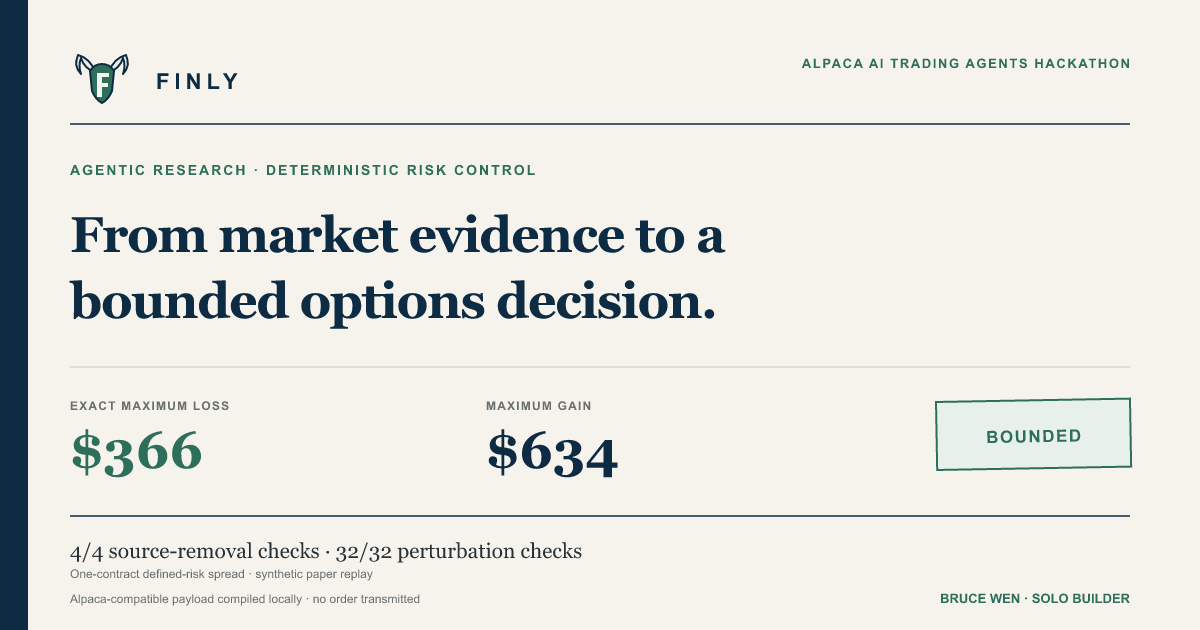
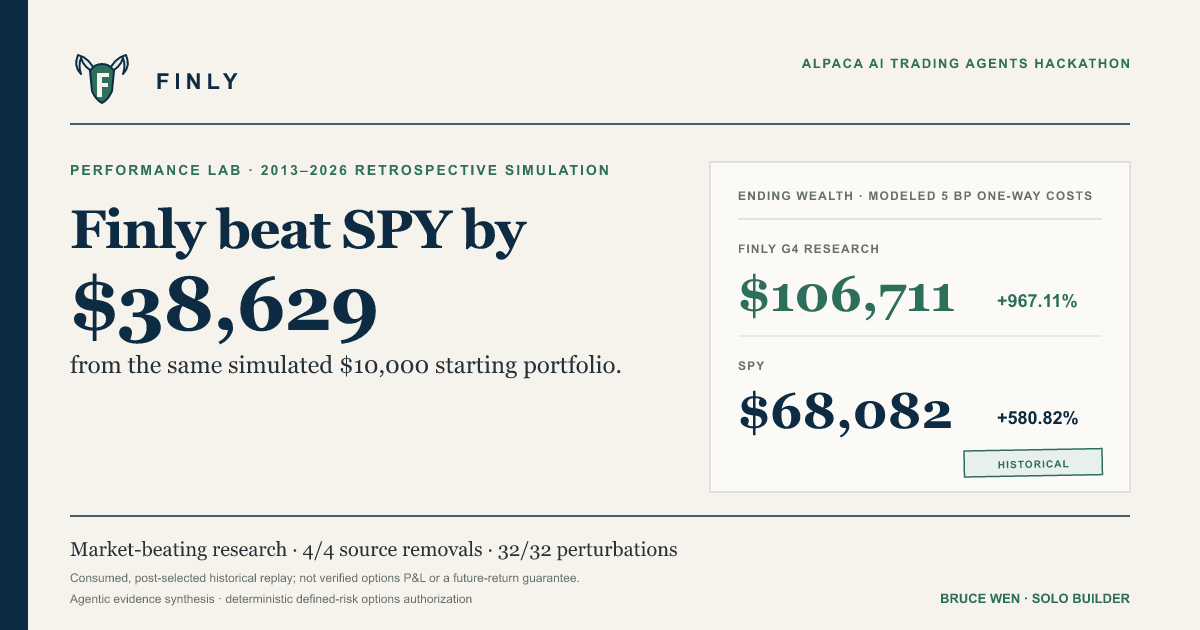
Lead with Finly's market-beating historical result

diff --git a/src/App.tsx b/src/App.tsx
@@ -162,6 +162,12 @@ const deliverables = [
 
 const pct = (value: number, digits = 2) => `${(value * 100).toFixed(digits)}%`;
 const signedPct = (value: number, digits = 2) => `${value >= 0 ? "+" : ""}${pct(value, digits)}`;
+const dollars = (value: number) => value.toLocaleString("en-US", {
+  maximumFractionDigits: 0,
+  minimumFractionDigits: 0,
+  style: "currency",
+  currency: "USD",
+});
 
 function titleCaseEvidenceClass(value: string) {
   return value.toLowerCase().replaceAll("_", " ");
@@ -173,6 +179,10 @@ export function DemoClient() {
   const g4 = gate.conclusions.g4_rejected_post_selection;
   const production = gate.conclusions.production_v1_execution_realism;
   const futureTests = gate.conclusions.registered_future_only_tests;
+  const performanceLabStartingWealth = 10_000;
+  const performanceLabEndingWealth = performanceLabStartingWealth * (1 + g4.g4_total_return);
+  const spyEndingWealth = performanceLabStartingWealth * (1 + g4.spy_total_return);
+  const performanceLabAdvantage = performanceLabEndingWealth - spyEndingWealth;
   const receipt = receiptMode === "aligned" ? alignedReceipt : conflictReceipt;
   const demoCandidate = alignedReceipt.compilation.selected;
   if (!demoCandidate || !alignedReceipt.certificate.certified || !alignedReceipt.perturbations?.passed) {
@@ -199,70 +209,71 @@ export function DemoClient() {
       <main id="main-content">
         <section className="hero shell" id="case">
           <div className="hero-copy">
-            <p className="kicker">Agentic options research / deterministic risk control</p>
-            <h1>From market evidence to a bounded options decision.</h1>
+            <p className="kicker">Market-beating historical research / bounded agentic execution</p>
+            <h1>Finly beat SPY by $38,629 in a $10,000 historical simulation.</h1>
             <p className="hero-deck">
-              Finly lets AI interpret a multi-source market case, then gives deterministic code the final word on the
-              contract, maximum loss, stress tests and authorization outcome.
+              Across the consumed 2013–2026 replay, Finly's strongest research configuration returned +967.11% versus
+              +580.82% for SPY. Its agentic pipeline then converts market evidence into a defined-risk options proposal
+              while deterministic code retains control of exposure, maximum loss and authorization.
             </p>
             <div className="hero-actions">
-              <a className="primary-action" href="#controls">Open the decision receipt</a>
-              <a className="text-action" href="#system">Follow the evidence chain <span aria-hidden="true">↓</span></a>
+              <a className="primary-action" href="#evidence">Inspect the performance replay</a>
+              <a className="text-action" href="#controls">Open the decision receipt <span aria-hidden="true">↓</span></a>
             </div>
             <p className="hero-thesis">
-              The model explains why a trade may exist. Code owns whether a capital-bearing instruction may exist.
+              Performance Lab searches for edge. The authorization gateway decides how much authority that evidence earns.
             </p>
           </div>
 
           <figure className="hero-figure">
             <div className="figure-labels">
-              <span>Checked decision receipt</span>
-              <strong>Synthetic paper replay</strong>
+              <span>Performance Lab result</span>
+              <strong>{g4.start_date.slice(0, 4)}–{g4.end_date.slice(0, 4)}</strong>
             </div>
             <div
               className="hero-result"
               role="img"
-              aria-label={`The checked synthetic paper replay compiled a one-contract defined-risk spread with an exact ${demoCandidate.max_loss} dollar maximum loss and ${demoCandidate.max_gain} dollar maximum gain after ${sourceRemovalCount} source-removal checks and ${perturbationCount} perturbation checks passed.`}
+              aria-label={`In the consumed historical simulation, ten thousand dollars became approximately ${dollars(performanceLabEndingWealth)} with Finly and ${dollars(spyEndingWealth)} with SPY, an ending-wealth advantage of ${dollars(performanceLabAdvantage)} after modeled ${g4.modeled_one_way_cost_bps} basis point one-way costs.`}
             >
               <div>
-                <span>Exact maximum loss</span>
-                <strong>${demoCandidate.max_loss}</strong>
-                <small>One-contract defined-risk spread</small>
+                <span>Finly ending wealth</span>
+                <strong>{dollars(performanceLabEndingWealth)}</strong>
+                <small>{signedPct(g4.g4_total_return)} total return</small>
               </div>
               <div>
-                <span>Maximum gain</span>
-                <strong>${demoCandidate.max_gain}</strong>
-                <small>Same compiled structure</small>
+                <span>SPY ending wealth</span>
+                <strong>{dollars(spyEndingWealth)}</strong>
+                <small>{signedPct(g4.spy_total_return)} total return</small>
               </div>
-              <p>{sourceRemovalCount}/{sourceRemovalCount} source removals and {perturbationCount}/{perturbationCount} perturbations passed.</p>
-              <em className="decision-stamp">Bounded</em>
+              <p><strong>{dollars(performanceLabAdvantage)}</strong> more ending wealth in the modeled historical replay.</p>
+              <em className="decision-stamp">Historical</em>
             </div>
             <figcaption>
-              The fixture compiled a local Alpaca-compatible paper payload. Nothing was transmitted, and the demo is not
-              broker-fill or profitability evidence.
+              Consumed, post-selected retrospective simulation with modeled {g4.modeled_one_way_cost_bps} bp one-way
+              costs. This is historical research evidence, not verified options P&amp;L or a future-return guarantee.
             </figcaption>
           </figure>
 
           <dl className="hero-metrics" aria-label="Checked product capabilities">
             <div>
+              <dt>Finly historical return</dt>
+              <dd>{signedPct(g4.g4_total_return)}</dd>
+              <p>Performance Lab result after modeled {g4.modeled_one_way_cost_bps} bp one-way costs.</p>
+            </div>
+            <div>
+              <dt>SPY historical return</dt>
+              <dd>{signedPct(g4.spy_total_return)}</dd>
+              <p>Identical consumed comparison window.</p>
+            </div>
+            <div>
               <dt>Source-removal checks</dt>
               <dd>{sourceRemovalCount}/{sourceRemovalCount}</dd>
-              <p>The same defined-risk structure survived each recorded source-family removal.</p>
+              <p>The checked defined-risk proposal survived each source-family removal.</p>
             </div>
             <div>
               <dt>Perturbation checks</dt>
               <dd>{perturbationCount}/{perturbationCount}</dd>
-              <p>The compiled structure remained stable across the recorded input shocks.</p>
-            </div>
-            <div>
-              <dt>Defined maximum loss</dt>
-              <dd>${alignedReceipt.certificate.max_loss_per_contract}</dd>
-              <p>Risk is calculated before the local paper payload can be certified.</p>
-            </div>
-            <div>
-              <dt>Authorization outcome</dt>
-              <dd>Permit</dd>
-              <p>The checked aligned fixture compiled locally; a conflicting fixture returns NO_TRADE.</p>
+              <p>The checked proposal remained stable across every recorded input shock.</p>
             </div>
           </dl>
         </section>

diff --git a/src/HistoricalExplorer.tsx b/src/HistoricalExplorer.tsx
@@ -29,21 +29,31 @@ export function HistoricalExplorer({
   worstFamilywisePValue,
   disposition,
 }: HistoricalExplorerProps) {
-  const [view, setView] = useState<"result" | "decision">("decision");
+  const [view, setView] = useState<"result" | "decision">("result");
   const scale = Math.max(candidateReturn, spyReturn);
   const candidateWidth = `${Math.max(0, (candidateReturn / scale) * 100)}%`;
   const spyWidth = `${Math.max(0, (spyReturn / scale) * 100)}%`;
+  const startingWealth = 10_000;
+  const candidateEndingWealth = startingWealth * (1 + candidateReturn);
+  const spyEndingWealth = startingWealth * (1 + spyReturn);
+  const endingWealthAdvantage = candidateEndingWealth - spyEndingWealth;
+  const dollars = (value: number) => value.toLocaleString("en-US", {
+    maximumFractionDigits: 0,
+    minimumFractionDigits: 0,
+    style: "currency",
+    currency: "USD",
+  });
 
   return (
     <section className="range-explorer" aria-labelledby="historical-explorer-title">
       <div className="range-explorer-heading">
         <div>
-          <p className="kicker">Inspectable research ledger</p>
-          <h3 id="historical-explorer-title">One replay, with its return and safety-audit status kept together.</h3>
+          <p className="kicker">Performance Lab</p>
+          <h3 id="historical-explorer-title">Finly's strongest historical configuration beat SPY by 386.29 percentage points.</h3>
         </div>
         <p>
-          The result remains available for inspection, but the audit view opens first. This prevents an attractive
-          hindsight-selected number from being mistaken for a forward trading promise.
+          The performance view opens first because this is the result judges should see. The adjacent validation view
+          states exactly what the retrospective simulation does—and does not—establish.
         </p>
       </div>
 
@@ -54,7 +64,7 @@ export function HistoricalExplorer({
           aria-controls="historical-result-panel"
           onClick={() => setView("result")}
         >
-          Historical result
+          Historical performance
         </button>
         <button
           type="button"
@@ -62,7 +72,7 @@ export function HistoricalExplorer({
           aria-controls="historical-decision-panel"
           onClick={() => setView("decision")}
         >
-          Safety-audit outcome
+          Validation audit
         </button>
       </div>
 
@@ -79,7 +89,7 @@ export function HistoricalExplorer({
           >
             <div className="audit-bar-row">
               <div className="audit-bar-label">
-                <span>Post-selected G4 shadow</span>
+                <span>Finly G4 research candidate</span>
                 <strong>{signedPct(candidateReturn)}</strong>
               </div>
               <div className="audit-bar-track" aria-hidden="true">
@@ -97,9 +107,10 @@ export function HistoricalExplorer({
             </div>
           </div>
           <p className="audit-panel-conclusion">
-            From {startDate} through {endDate}, after modeled {oneWayCostBps}-basis-point one-way costs, the G4 replay
-            produced the larger historical total return. That observation is descriptive; it does not decide whether the
-            strategy was discovered honestly enough to deploy.
+            A simulated {dollars(startingWealth)} became approximately <strong>{dollars(candidateEndingWealth)}</strong>
+            {" "}with Finly versus <strong>{dollars(spyEndingWealth)}</strong> with SPY—an ending-wealth advantage of
+            {" "}<strong>{dollars(endingWealthAdvantage)}</strong>. The replay covers {startDate} through {endDate} and
+            includes modeled {oneWayCostBps}-basis-point one-way costs.
           </p>
         </div>
       ) : (
@@ -112,29 +123,29 @@ export function HistoricalExplorer({
             <div>
               <dt>Deflated Sharpe probability</dt>
               <dd>{pct(deflatedSharpeProbability)}</dd>
-              <p>The selection-adjusted evidence did not support promotion.</p>
+              <p>The multiple-search adjustment keeps this result in the Performance Lab.</p>
             </div>
             <div>
               <dt>Worst familywise-adjusted p-value</dt>
               <dd>{pct(worstFamilywisePValue)}</dd>
-              <p>The multiple-testing result did not support promotion.</p>
+              <p>The result remains historical evidence rather than a promise of future returns.</p>
             </div>
             <div className="audit-disposition">
               <dt>Claim status</dt>
               <dd>{readableDisposition(disposition)}</dd>
-              <p>The replay remains available as research evidence without being marketed as a forecast.</p>
+              <p>Market the measured historical result; do not relabel it as live or forward performance.</p>
             </div>
           </dl>
           <p className="audit-panel-conclusion">
-            This audit does not erase the historical return. It gives the number its proper label so judges can distinguish
-            an interesting research result from evidence that is ready to carry capital.
+            Finly keeps the market-beating simulation visible while preventing a backtest from silently becoming an
+            unrestricted broker instruction. That combination is the product: ambitious research with bounded authority.
           </p>
         </div>
       )}
 
       <p className="range-boundary">
-        <strong>Boundary:</strong> this is consumed, post-selected retrospective evidence. It is not a forecast, verified
-        options P&amp;L, a broker-fill record or evidence of future market superiority.
+        <strong>Method boundary:</strong> consumed, post-selected retrospective simulation; modeled {oneWayCostBps} bp
+        one-way costs. It is not verified options P&amp;L, a broker-fill record, or a guarantee of future market superiority.
       </p>
     </section>
   );

diff --git a/index.html b/index.html
@@ -6,20 +6,20 @@
     <meta name="theme-color" content="#f8f6ef" />
     <meta
       name="description"
-      content="Finly turns multi-source market evidence into a defined-risk options proposal, then uses deterministic controls to bound loss, stress-test the structure, and decide PERMIT or NO_TRADE."
+      content="Finly's strongest 2013–2026 historical research configuration returned +967.11% versus +580.82% for SPY, while deterministic controls bound the authority of its agentic options pipeline."
     />
     <meta name="robots" content="index,follow,max-image-preview:large" />
     <link rel="canonical" href="https://owlsowo.github.io/finly-bot/" />
     <link rel="alternate" type="text/plain" href="./llms.txt" title="Machine-readable Finly project summary" />
-    <meta property="og:title" content="Finly · From market evidence to a bounded options decision" />
-    <meta property="og:description" content="AI interprets the market case. Deterministic code owns the contract, maximum loss, stress tests, and final authorization outcome." />
+    <meta property="og:title" content="Finly · +967.11% historical simulation vs +580.82% SPY" />
+    <meta property="og:description" content="$10K became a modeled $106.7K with Finly versus $68.1K with SPY in the consumed 2013–2026 replay. Historical research, bounded agentic execution." />
     <meta property="og:image" content="https://owlsowo.github.io/finly-bot/brand/finly-social-cover.png" />
     <meta property="og:image:width" content="1200" />
     <meta property="og:image:height" content="630" />
-    <meta property="og:image:alt" content="Finly decision-authority proposal cover" />
+    <meta property="og:image:alt" content="Finly historical simulation ending-wealth comparison against SPY" />
     <meta name="twitter:card" content="summary_large_image" />
-    <meta name="twitter:title" content="Finly · From market evidence to a bounded options decision" />
-    <meta name="twitter:description" content="AI interprets the market case. Deterministic code owns the contract, maximum loss, stress tests, and final authorization outcome." />
+    <meta name="twitter:title" content="Finly · +967.11% historical simulation vs +580.82% SPY" />
+    <meta name="twitter:description" content="$10K became a modeled $106.7K with Finly versus $68.1K with SPY in the consumed 2013–2026 replay. Historical research, bounded agentic execution." />
     <meta name="twitter:image" content="https://owlsowo.github.io/finly-bot/brand/finly-social-cover.png" />
     <link rel="icon" type="image/svg+xml" href="./brand/finly-mark.svg" />
     <link rel="apple-touch-icon" href="./finly-icon.png" />
@@ -28,7 +28,7 @@
         "@context": "https://schema.org",
         "@type": "SoftwareSourceCode",
         "name": "Finly",
-        "description": "An educational paper-trading research prototype that separates AI market assessment from deterministic risk, order construction, and authorization.",
+        "description": "A quantitative trading research prototype whose strongest 2013–2026 historical configuration returned +967.11% versus +580.82% for SPY, with deterministic controls separating AI market interpretation from risk, order construction, and authorization.",
         "url": "https://owlsowo.github.io/finly-bot/",
         "codeRepository": "https://github.com/owlsowo/finly-bot",
         "author": {
@@ -42,7 +42,7 @@
         "license": "https://github.com/owlsowo/finly-bot/blob/main/LICENSE"
       }
     </script>
-    <title>Finly · Bounded agentic options research</title>
+    <title>Finly · +967.11% historical simulation vs +580.82% SPY</title>
   </head>
   <body>
     <div id="root"></div>

diff --git a/src/styles.css b/src/styles.css
@@ -1203,7 +1203,7 @@ footer {
   .hero-deck { font-size: 17px; }
   .hero-actions { align-items: flex-start; flex-direction: column; gap: 16px; }
   .hero-figure { margin-inline: -6px; padding: 10px; }
-  .hero-result { min-height: 350px; grid-template-columns: 1fr; background: var(--paper-bright); }
+  .hero-result { min-height: 350px; grid-template-columns: 1fr; padding-bottom: 58px; background: var(--paper-bright); }
   .hero-result > div { padding: 22px 18px; }
   .hero-result > div + div { border-top: 1px solid var(--rule-light); text-align: left; }
   .hero-result > p { grid-column: 1; margin: 16px 18px 0; font-size: 15px; }
